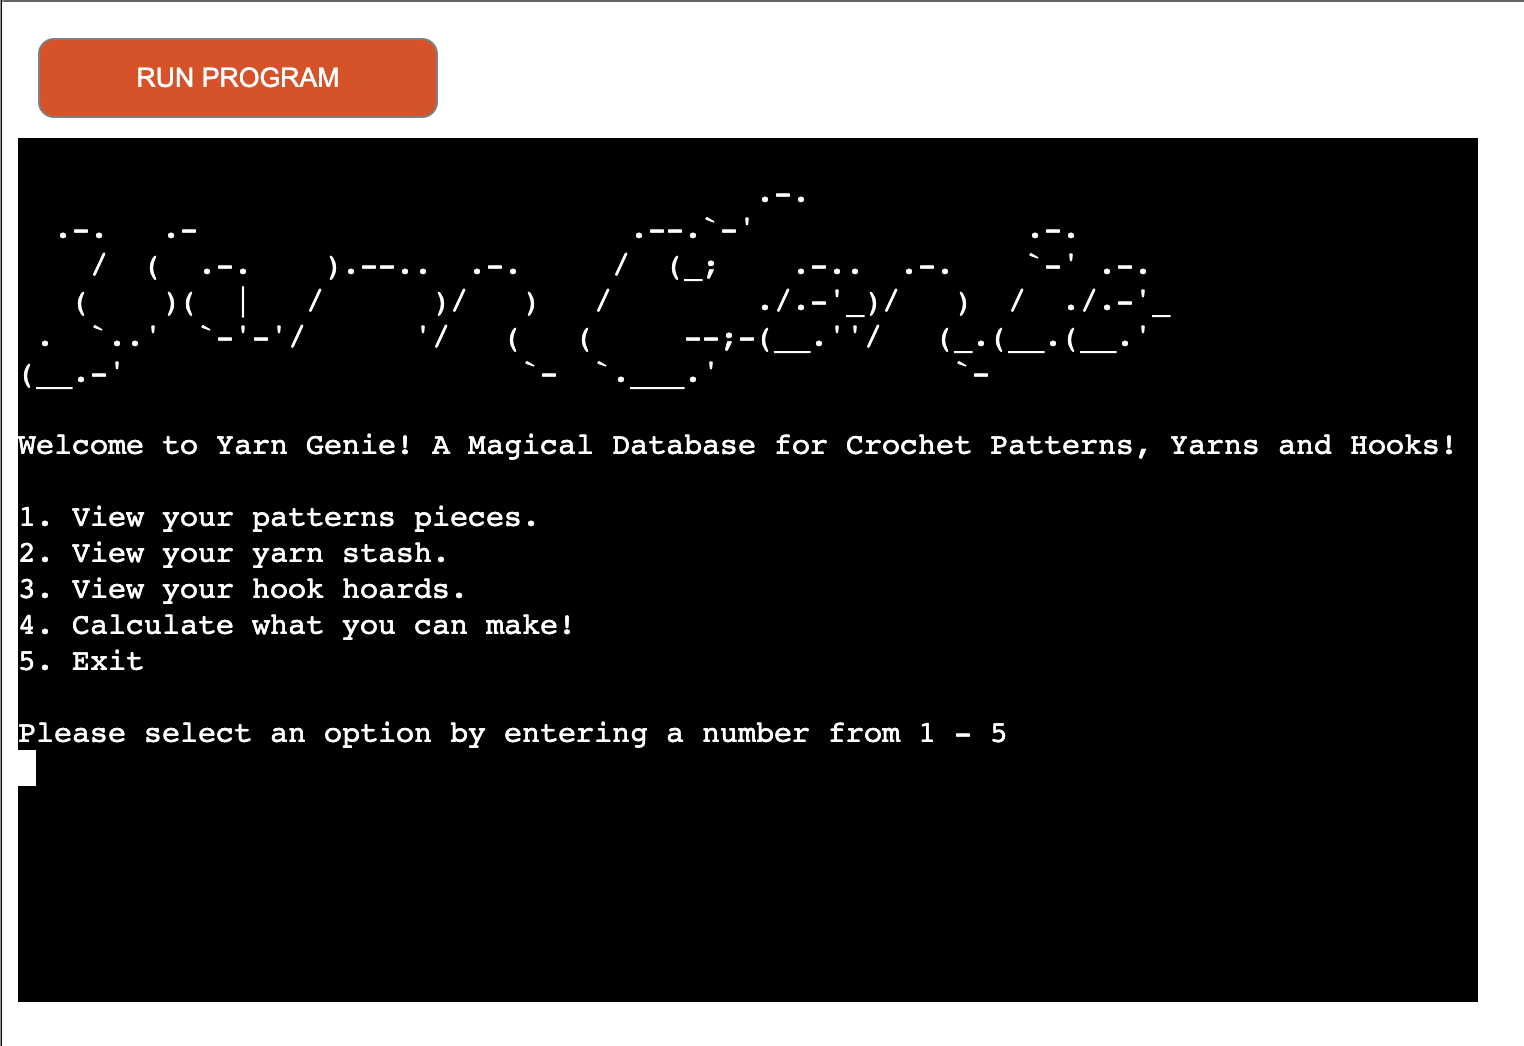
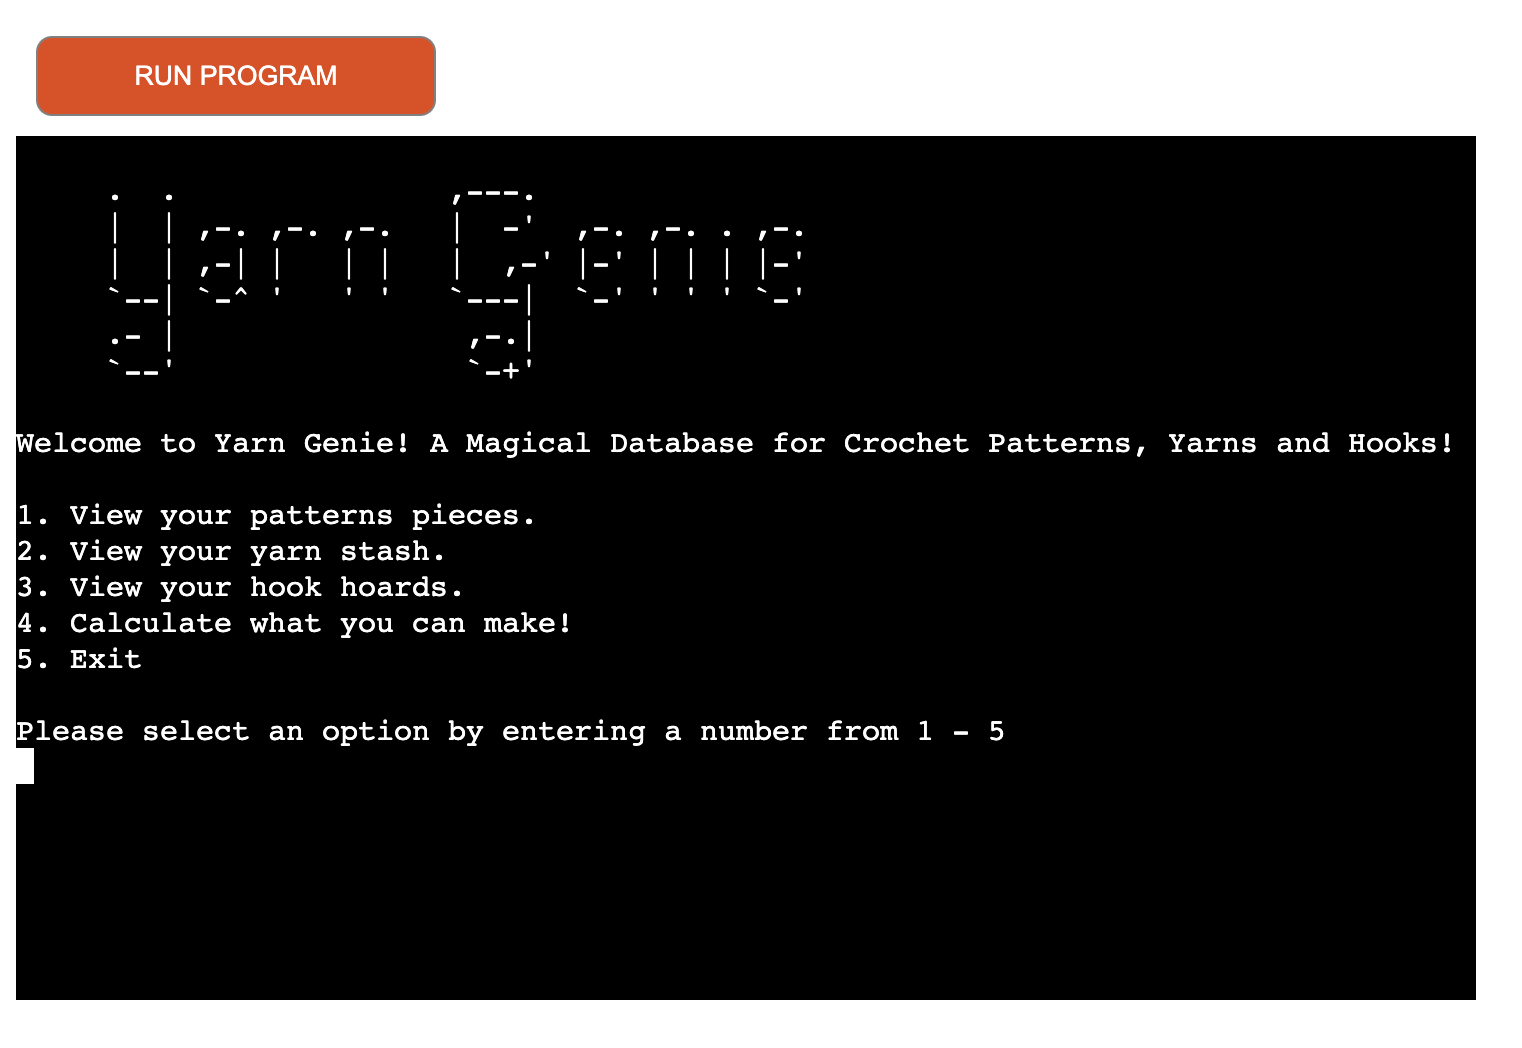
Add basic structure for README
Update yarn_genie_terminal image

Add Credits section on README

diff --git a/README.md b/README.md
@@ -1,6 +1,65 @@
-credits
-https://stackoverflow.com/questions/9535954/printing-lists-as-tabular-data - for Tabulate
-https://patorjk.com/software/taag/ - text to ascii
-https://www.geeksforgeeks.org/what-does-the-if-__name__-__main__-do/ - if name main
-https://gist.github.com/AO8/d37a603f0121e8573dd0154595ab0460 - google sheet methods
-https://github.com/alexkavanagh-dev/grocery_list_generator & https://github.com/elainebroche-dev/ms3-event-scheduler - inspiration for project
+<h1 align="center">Yarn Genie</h1>
+
+[View the live project here](https://yarn-genie.herokuapp.com/)
+
+![Yarn Genie](documentation/support_images/yarn_genie_terminal.png)
+
+Yarn Genie is a terminal based application to manage crochet related data such as patterns, yarns, and hooks.
+
+The user can utilise the application to view the data, add data to the database, remove the data, and calculate pattern requirements.
+
+All the data are stored in Google Sheets and is accessed through API.
+
+## Table of Contents
+* [User Experience](#user-experience)
+* [Features](#features)
+* [Design](#design)
+* [Technologies Used](#technologies-used)
+* [Testing](#testing)
+* [Deployment](#deployment)
+* [Credits](#credits)
+
+## Technologies Used
+
+### Languages Used
+* [Python 3.11.1](https://www.python.org/downloads/release/python-3111/)
+
+### Frameworks, Libraries & Programs Used
+* [Google Spreadsheets]
+
+* [Google Drive API]
+
+* [Google Sheets API]
+
+* [gspread]
+
+* [Google Auth]
+
+* [Lucid Chart]
+
+* [patorjk.com Text to ASCII art](https://patorjk.com/software/taag/)
+
+* [Git]: was used for version controlling purposes through git commands via the terminal on GitPod and is pushed to GitHub for cloud-based storage.
+
+* [GitHub]: is used to host the repository of the project and is also used for the deployment of the website.
+
+## Credits
+
+### Contents
+* The Google Spreadsheet "Yarn Genie" that this application ulitised is created by the developer
+    * Pattern and Yarn data are gathered from [Ravelry](https://www.ravelry.com/)
+
+* The inspiration for this application comes from [Elaine Broche's MS3 Event Scheduler](https://github.com/elainebroche-dev/ms3-event-scheduler) and [Alex Kavanagh's Grocery List Generator](https://github.com/alexkavanagh-dev/grocery_list_generator)
+
+* Printing list into tabular data from [Stackoverflow](https://stackoverflow.com/questions/9535954/printing-lists-as-tabular-data)
+
+* Different types of methods to access Google Sheet's data by [AO8](https://gist.github.com/AO8/d37a603f0121e8573dd0154595ab0460)
+
+* How to use if name = main by [Geeks for Geeks](https://www.geeksforgeeks.org/what-does-the-if-__name__-__main__-do/)
+
+* All other content was written by the developer
+
+### Achknowledgements
+* Thank you to my wonderful mentor, Brian Macharia, for helping me during all phases of the project.
+
+* Special thanks to Code Institute Tutor, Sean, for helping me with coverting psedocode into actual code and also helping me from getting overwhelmed.
